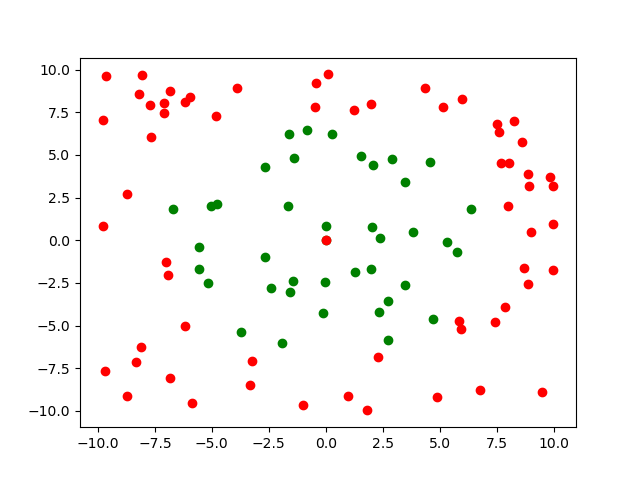
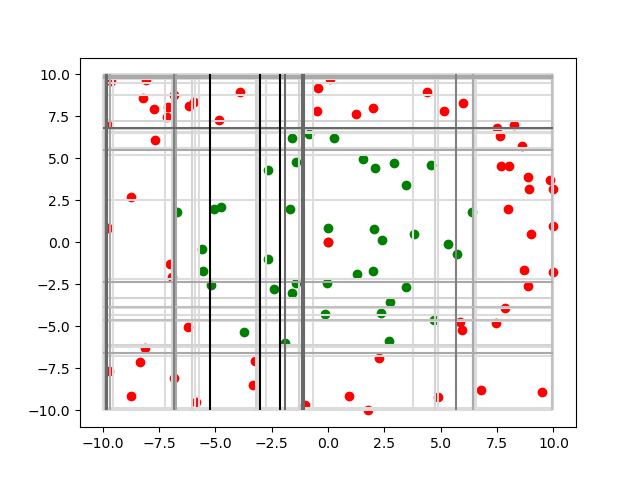
Added visualization for classifiers

diff --git a/ada_boost.py b/ada_boost.py
@@ -16,7 +16,8 @@ def read_points():
     return points
 
 
-def visualize(positives, negatives):
+def visualize(positives, negatives, weak_classifiers):
+    #-----plot_points-----
     positives_plot = np.zeros((2, 40))
     negatives_plot = np.zeros((2, 62))
     for (e, entry) in enumerate(positives):
@@ -25,12 +26,52 @@ def visualize(positives, negatives):
     for (e, entry) in enumerate(negatives):
         negatives_plot[0][e] = entry[0]
         negatives_plot[1][e] = entry[1]
-    # plot all
+
     fig, axs = plt.subplots(1)
+
+    #------plot horizontal and vertical classifiers---------
+    alpha = [c[3] for c in weak_classifiers]
+    alpha_arg = np.argmax(alpha)
+    normalize_alpha = 1/alpha[alpha_arg]
+    for i in range(len(alpha)):
+        alpha[i] *= normalize_alpha
+
+    for (e, classifier) in enumerate(weak_classifiers):
+        color = color_picker(alpha[e])
+        if classifier[0]:
+            plt.hlines(classifier[1], xmax=10.0, xmin=-10.0, colors=color)
+        else:
+            plt.vlines(classifier[1], ymax=10.0, ymin=-10.0, colors=color)
+
+
+    #---plot all-----
     axs.scatter(positives_plot[0], positives_plot[1], color='green')
     axs.scatter(negatives_plot[0], negatives_plot[1], color='red')
     fig.savefig('graph.png')
     fig.show()
+
+
+def color_picker(alpha):
+    #if alpha <= 0.1:
+        #return 'snow'
+    #if alpha <= 0.2:
+        #return 'white'
+    if alpha <= 0.3:
+        return 'gainsboro'
+    #if alpha <= 0.4:
+        #return 'gainsboro'
+    if alpha <= 0.5:
+        return 'lightgray'
+    if alpha <= 0.6:
+        return 'silver'
+    if alpha <= 0.7:
+        return 'darkgray'
+    if alpha <= 0.8:
+        return 'grey'
+    if alpha <= 0.9:
+        return 'dimgray'
+    if alpha <= 1.0:
+        return 'black'
 
 
 def validate_classifier(points, classifier):
@@ -181,12 +222,11 @@ def ada_boost():
         weak_classifiers.append(best_classifier)
         evaluate(points, weak_classifiers)
 
-    #print('bullet1: ' + str(weak_classifiers))
     evaluate(points, weak_classifiers)
 
     positives = points[0:40]
     negatives = points[41:102]
-    visualize(positives, negatives)
+    visualize(positives, negatives, weak_classifiers)
 
 
 if __name__ == '__main__':
